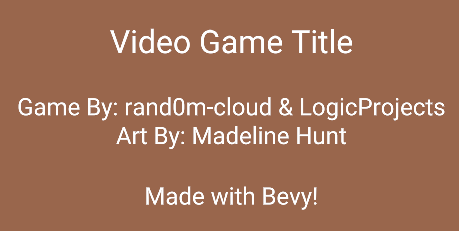
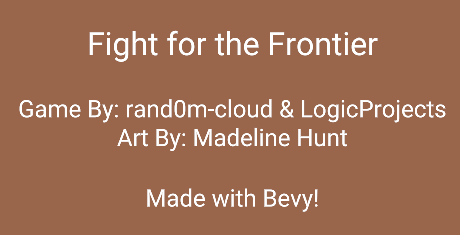
New size

diff --git a/src/menus.rs b/src/menus.rs
@@ -13,7 +13,7 @@ use kayak_ui::{
     widgets,
 };
 
-use crate::GameState;
+use crate::{GameState, SCALE};
 
 pub struct MenuPlugin;
 
@@ -64,8 +64,8 @@ fn spawn_main_menu(
     let context = BevyContext::new(|context| {
         let container_style = Style {
             layout_type: StyleProp::Value(LayoutType::Column),
-            width: StyleProp::Value(Units::Percentage(30.0)),
-            height: StyleProp::Value(Units::Percentage(40.0)),
+            width: StyleProp::Value(Units::Percentage(35.0)),
+            height: StyleProp::Value(Units::Percentage(45.0)),
 
             border_radius: StyleProp::Value(Corner::all(10.0)),
             background_color: StyleProp::Value(Color::new(0.6, 0.4, 0.3, 1.0)),
@@ -95,8 +95,8 @@ fn spawn_main_menu(
         });
 
         let button_style = Style {
-            width: StyleProp::Value(Units::Percentage(80.0)),
-            height: StyleProp::Value(Units::Percentage(10.0)),
+            width: StyleProp::Value(Units::Percentage(80.0 * SCALE)),
+            height: StyleProp::Value(Units::Percentage(10.0 * SCALE)),
             top: StyleProp::Value(Units::Pixels(5.0)),
             //Centers children
             padding: StyleProp::Value(Edge::all(Units::Stretch(1.0))),
@@ -119,20 +119,20 @@ fn spawn_main_menu(
         //Sizes could be loaded from image desc but that's hell
         let image_title_style = Style {
             top: StyleProp::Value(Units::Pixels(10.0)),
-            width: StyleProp::Value(Units::Pixels(459.0)),
-            height: StyleProp::Value(Units::Pixels(231.0)),
+            width: StyleProp::Value(Units::Pixels(460.0 * SCALE)),
+            height: StyleProp::Value(Units::Pixels(235.0 * SCALE)),
             ..default()
         };
 
         let image_button_style = Style {
-            width: StyleProp::Value(Units::Pixels(73.0)),
-            height: StyleProp::Value(Units::Pixels(25.0)),
+            width: StyleProp::Value(Units::Pixels(73.0 * SCALE)),
+            height: StyleProp::Value(Units::Pixels(25.0 * SCALE)),
             ..default()
         };
 
         let image_volume_style = Style {
-            width: StyleProp::Value(Units::Pixels(113.0)),
-            height: StyleProp::Value(Units::Pixels(32.0)),
+            width: StyleProp::Value(Units::Pixels(113.0 * SCALE)),
+            height: StyleProp::Value(Units::Pixels(32.0 * SCALE)),
             ..default()
         };
 
@@ -142,10 +142,10 @@ fn spawn_main_menu(
         render! {
             <widgets::App>
                 <widgets::Background styles={Some(container_style)}>
-                    //<widgets::Text content={"Video Game Title".to_string()} size={32.0} styles={Some(title_style)}/>
+                    //<widgets::Text content={"Fight for the Frontier".to_string()} size={32.0} styles={Some(_title_style)}/>
                     //<widgets::Text content={"Game By: rand0m-cloud & LogicProjects".to_string()} size={24.0} />
-                    //<widgets::Text content={"Art By: Madeline Hunt".to_string()} size={24.0} styles={Some(title_style)}/>
-                    //<widgets::Text content={"Made with Bevy!".to_string()} size={24.0} styles={Some(title_style)}/>
+                    //<widgets::Text content={"Art By: Madeline Hunt".to_string()} size={24.0} styles={Some(_title_style)}/>
+                    //<widgets::Text content={"Made with Bevy!".to_string()} size={24.0} styles={Some(_title_style)}/>
                     <widgets::Image handle={image_handle} styles={Some(image_title_style)}/>
                     <widgets::Button styles={Some(button_style)} on_event={Some(start_button)}>
                         //<widgets::Text content={"Start".to_string()} size={24.0} />
@@ -178,9 +178,9 @@ pub struct SliderBoxProps {
 fn SliderBox(props: SliderBoxProps) {
     //Set up slider internal state
     let (is_dragging, set_is_dragging, ..) = use_state!(false);
-    let (offset, set_offset, ..) = use_state!(props.size.0 / 2.3);
-    let (pos, set_pos, ..) = use_state!(props.size.0 / 2.3);
-    let (percent, set_percent, ..) = use_state!(50.0);
+    let (offset, set_offset, ..) = use_state!(props.size.0 / 7.3);
+    let (pos, set_pos, ..) = use_state!(props.size.0 / 7.3);
+    let (percent, set_percent, ..) = use_state!(10.0);
     let (layout, set_layout, ..) = use_state!(10000.0);
 
     //Handle dragging
@@ -215,7 +215,7 @@ fn SliderBox(props: SliderBoxProps) {
 
     //Calculate max allowed percent
     //(position is set at top left corner of button so max percent is less than 100)
-    let max_percent = (1.0 - (button_width * 2.0) / layout) * 100.0;
+    let max_percent = (1.0 - button_width / layout) * 100.0;
 
     //Update percent
     set_percent((pos / layout * 100.0).clamp(0.0, max_percent));
@@ -229,8 +229,8 @@ fn SliderBox(props: SliderBoxProps) {
     let background = Style {
         border_radius: StyleProp::Value(Corner::all(round_amount)),
         left: StyleProp::Value(Units::Pixels(20.0)),
-        width: StyleProp::Value(Units::Pixels(width)),
-        height: StyleProp::Value(Units::Pixels(height)),
+        width: StyleProp::Value(Units::Pixels(width * SCALE)),
+        height: StyleProp::Value(Units::Pixels(height * SCALE)),
         background_color: StyleProp::Value(props.box_color),
         //padding: StyleProp::Value(Edge::all(Units::Percentage(10.0))),
         ..default()

diff --git a/src/main.rs b/src/main.rs
@@ -7,14 +7,14 @@ use bevy_inspector_egui::{WorldInspectorParams, WorldInspectorPlugin};
 use bevy_tweening::TweeningPlugin;
 
 pub const CLEAR: Color = Color::rgb(0.3, 0.3, 0.3);
-pub const HEIGHT: f32 = 900.0;
+pub const HEIGHT: f32 = 900.0 * SCALE;
 pub const RESOLUTION: f32 = 16.0 / 9.0;
 
 use rust_gamejam::{
     assets::GameAssetsPlugin, audio::GameAudioPlugin, bullet::BulletPlugin, debug::DebugPlugin,
     enemy::EnemyPlugin, external::ExternalPlugin, gameover::GameOverPlugin, map::MapPlugin,
     menus::MenuPlugin, minion::*, particles::ParticlePlugin, player::PlayerPlugin, prelude::*,
-    spawner::SpawnerPlugin, world_ui::BarMaterialPlugin,
+    spawner::SpawnerPlugin, world_ui::BarMaterialPlugin, SCALE,
 };
 
 fn main() {

diff --git a/src/lib.rs b/src/lib.rs
@@ -1,4 +1,5 @@
 #![allow(clippy::type_complexity)]
+pub const SCALE: f32 = 2.0 / 3.0;
 
 pub mod assets;
 pub mod audio;
